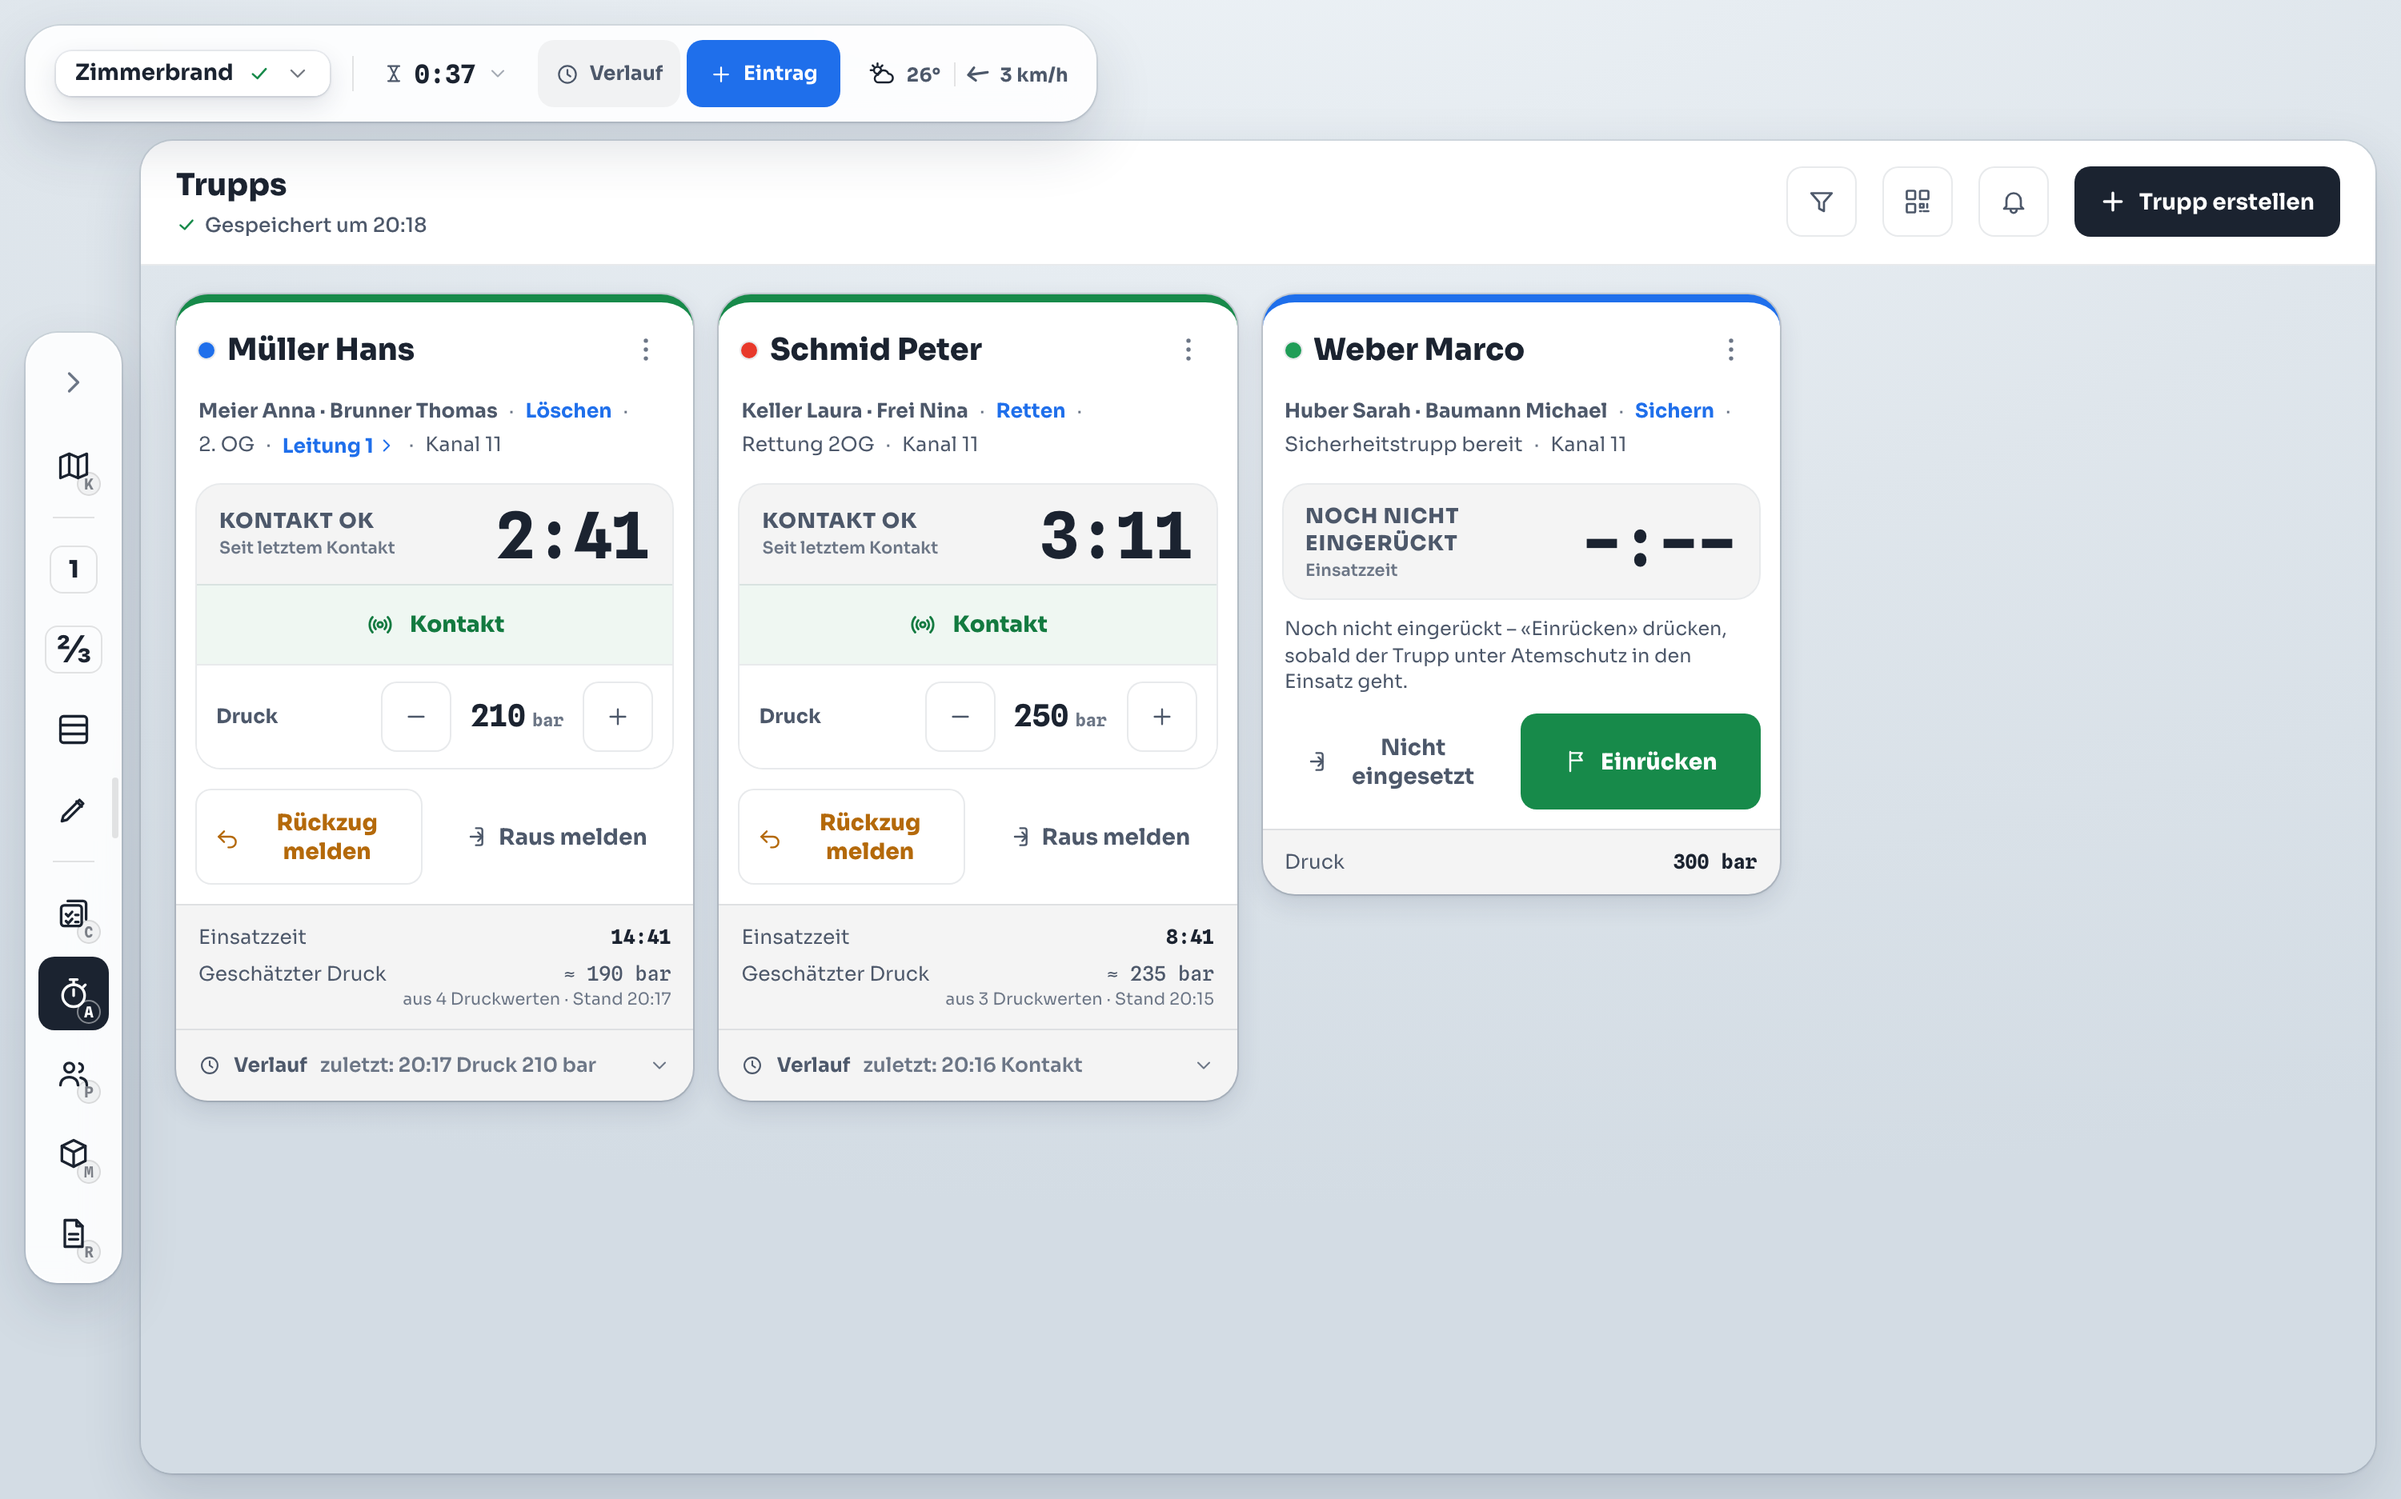
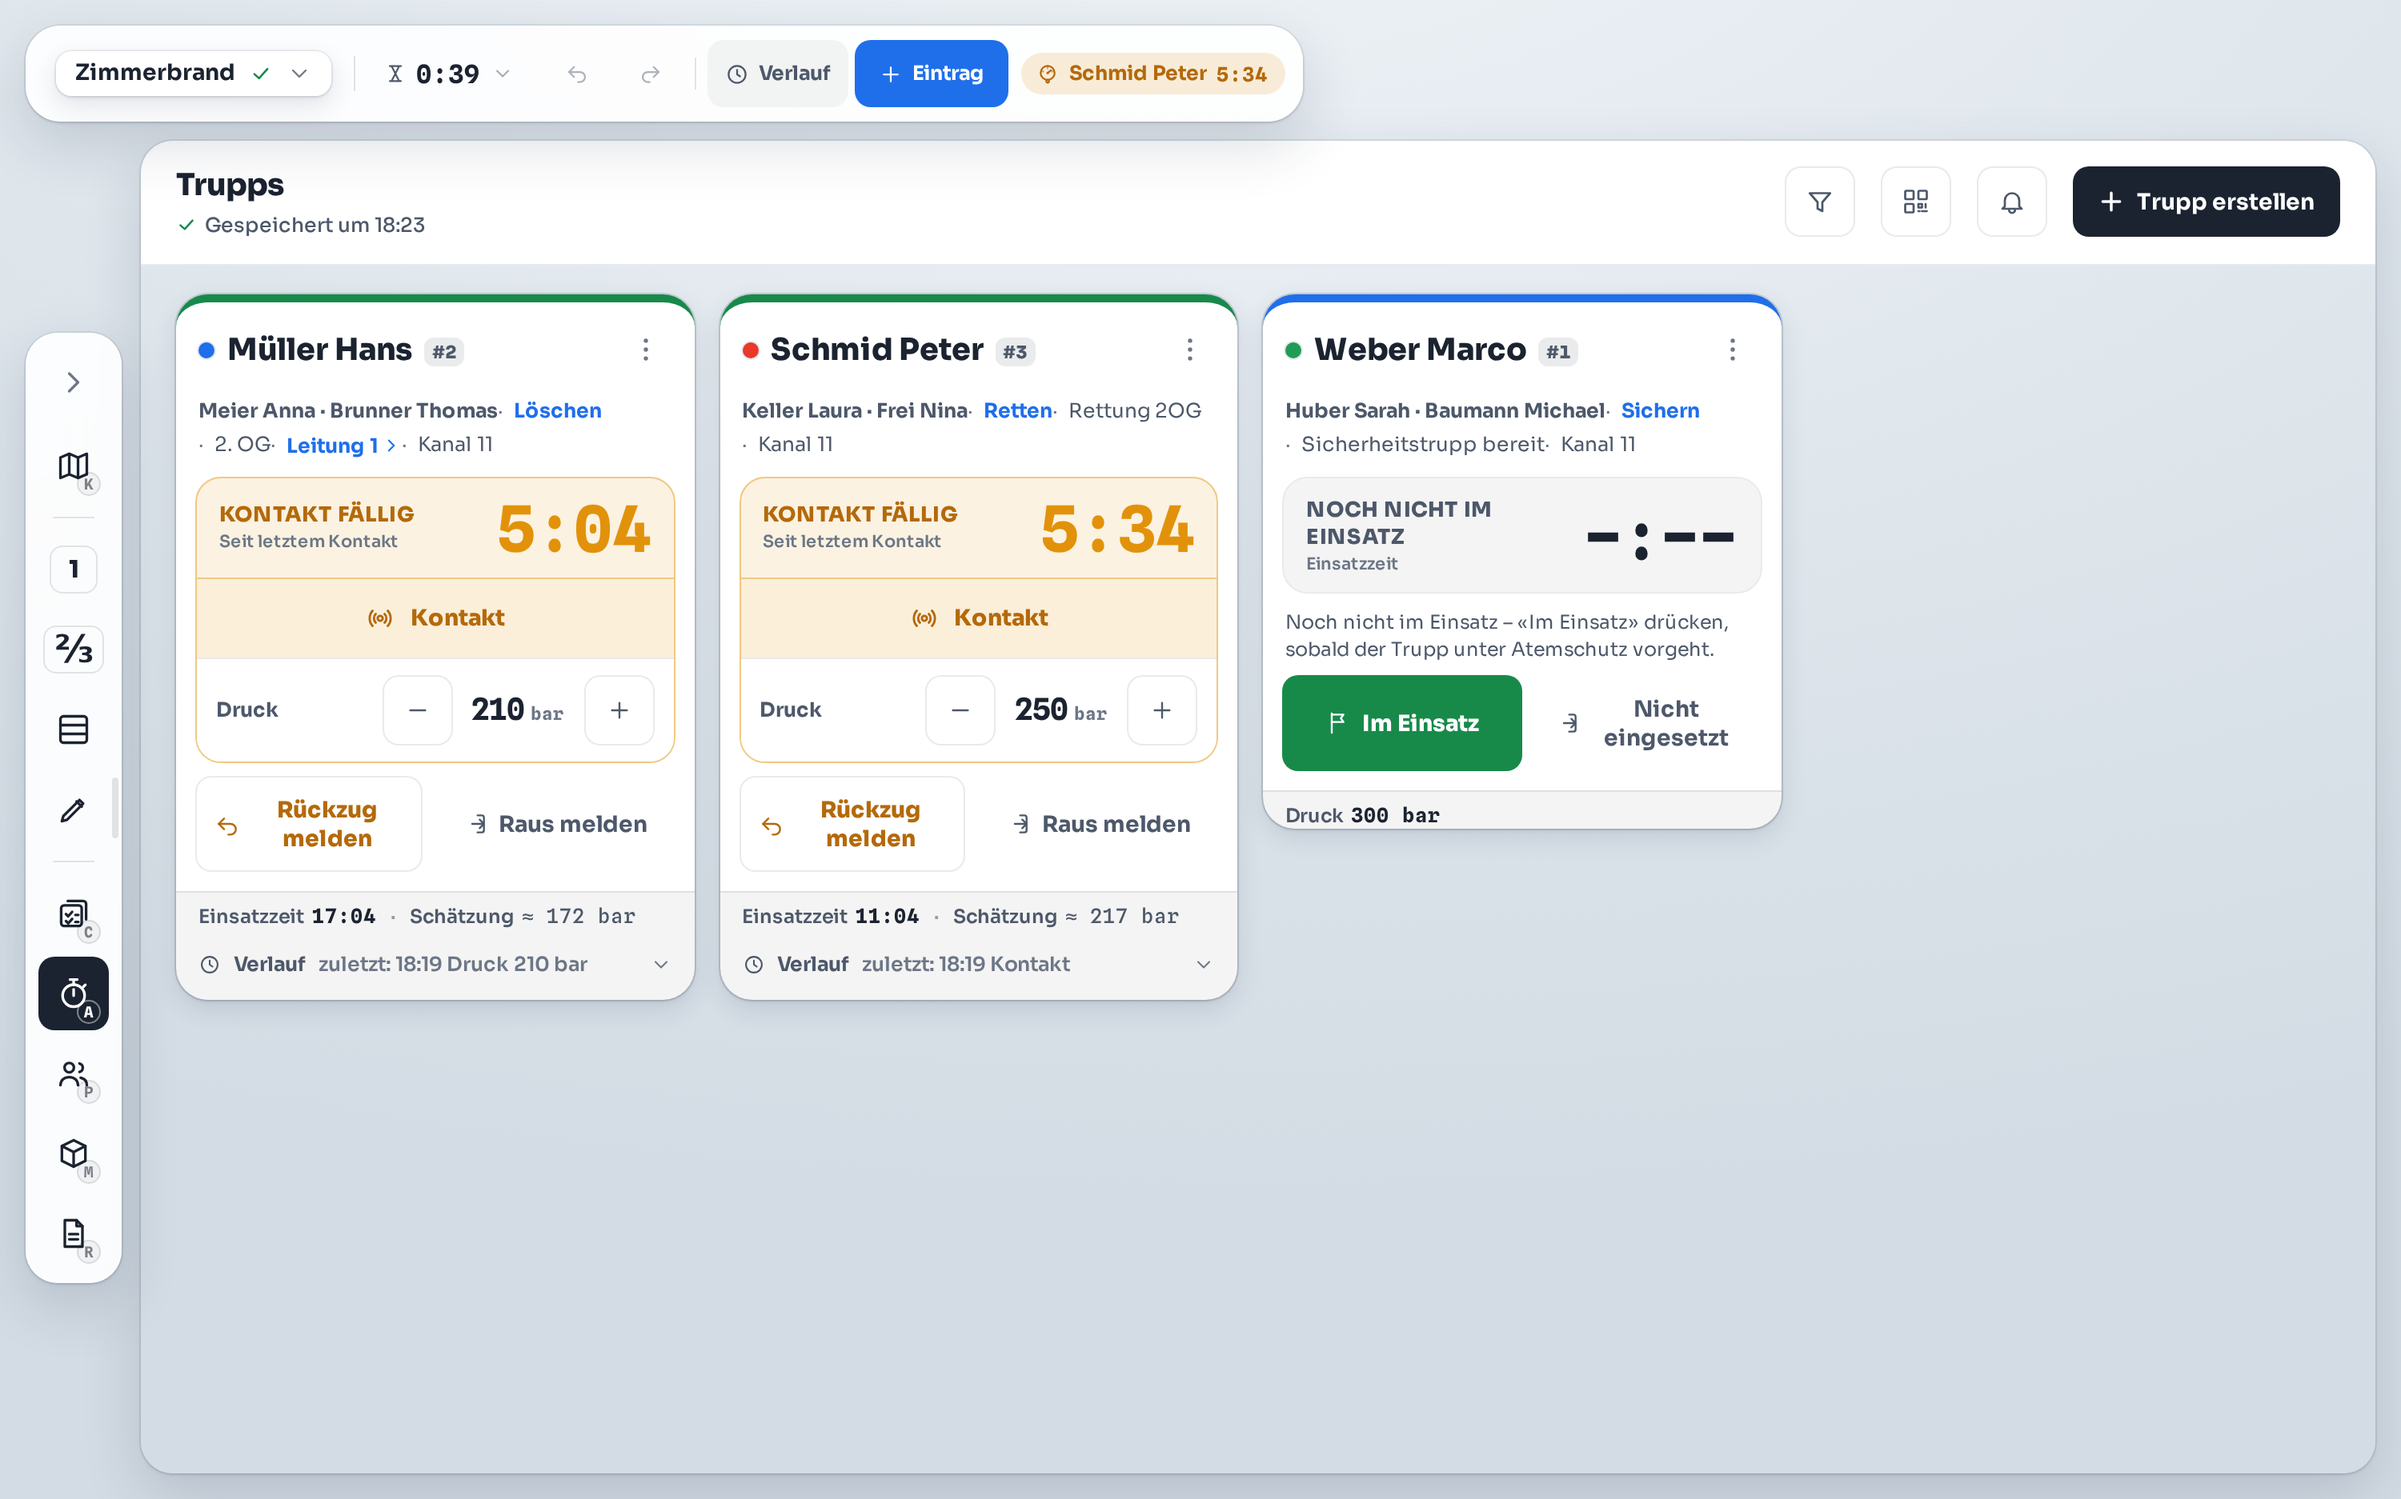
chore(site): refresh every screenshot from the current demo (#183)
* chore(site): refresh every screenshot from the current demo – the images dated from before 0.11.0

Captured 20.09.2026 straight after a (working again) demo reset, so the Trupps stand at
«Kontakt fällig» and not in alarm: the storey badges and eyes of the Gebäude stack, the
Trupps board without the «#N» on markers, the current Rapport. README images at 2x.

* docs(changelog): the second phone pass of 20.09. (#177) is on the list

* test(floorpage): unmount before the mocks are cleared, and wait for the render that comes an effect later

The sharp render is asked for in a passive effect after the crop's commit, outside act(). On a
loaded runner that effect was still pending when a test ended; Testing Library's cleanup then
flushed it into the next test's cleared mock. Red twice on 20.09. in two different tests, never
locally – the first fix (#178) pinned one symptom, this is the cause.

---------

diff --git a/src/components/FloorPage.test.tsx b/src/components/FloorPage.test.tsx
@@ -1,5 +1,5 @@
 // @vitest-environment jsdom
-import { render, waitFor } from '@testing-library/react'
+import { cleanup, render, waitFor } from '@testing-library/react'
 import { afterEach, describe, expect, it, vi } from 'vitest'
 import { FloorPage } from './FloorPage'
 import { FLOOR_PAGE_SIDE, pageCanvasBudget } from '../lib/pdfRenderBudget'
@@ -29,7 +29,12 @@ const EG: [number, number, number, number] = [0.1, 0.2, 0.5, 0.6]
 
 const sheet = (ui: React.ReactNode) => render(<svg viewBox="0 0 400 300">{ui}</svg>)
 
-afterEach(() => { planRegionUrl.mockClear(); planRegionCropUrl.mockClear() })
+// ⚠ Unmount FIRST, then clear. The sharp render is asked for in a passive effect AFTER the crop's
+// commit, and that commit happens outside act() – so on a loaded CI runner the effect can still
+// be pending when a test ends. Testing Library's own cleanup (registered earlier, so it runs
+// LATER) then flushed it into the NEXT test's freshly cleared mock: twice red on main-bound CI
+// on 20.09.2026, in two different tests, and never once locally.
+afterEach(() => { cleanup(); planRegionUrl.mockClear(); planRegionCropUrl.mockClear() })
 
 describe('FloorPage', () => {
   it('asks for the storey\'s own region, at the storeys\' share of the budget', async () => {
@@ -153,8 +158,9 @@ describe('FloorPage', () => {
       ))}
     </>)
     await waitFor(() => expect(container.querySelectorAll('image')).toHaveLength(2))
-    expect(planRegionUrl.mock.calls.map((call) => (call as unknown as [string, number[]])[1]))
-      .toEqual([west.clip, east.clip])
+    // the images are the CROPS; the sharp renders are asked for an effect later – wait for them
+    await waitFor(() => expect(planRegionUrl.mock.calls.map((call) => (call as unknown as [string, number[]])[1]))
+      .toEqual([west.clip, east.clip]))
     const [a, b] = [...container.querySelectorAll('image')].map((el) => el.getAttribute('transform'))
     expect(a).not.toBe(b) // two drawings, two places – never one raster drawn twice
   })

diff --git a/CHANGELOG.md b/CHANGELOG.md
@@ -145,8 +145,9 @@ so this file – not the log – is the record of what shipped up to that point.
   journal FAB opens the composer with keys, not only a caret; a confirm dialog's action row
   wraps instead of pushing «Abbrechen» into the corner; the Atemschutz alarm chip's clock no
   longer ghosts the previous second in WebKit; the night map's dark end is stretched instead of
-  squeezed; a station-approved fit reads «Verknüpft» everywhere; one shape for every search
-  placeholder.
+  squeezed; a station-approved fit reads «Verknüpft» everywhere; the folded «Rapport» tile remembers its
+  page across a reload of the installed app; every sheet's ✕ is 36 px; one shape for every
+  search placeholder.
 - **The «#N» badge leaves the marker, chip, pill and phone row** – the Trupp's name stands alone
   there, and the card carries the number.
 
